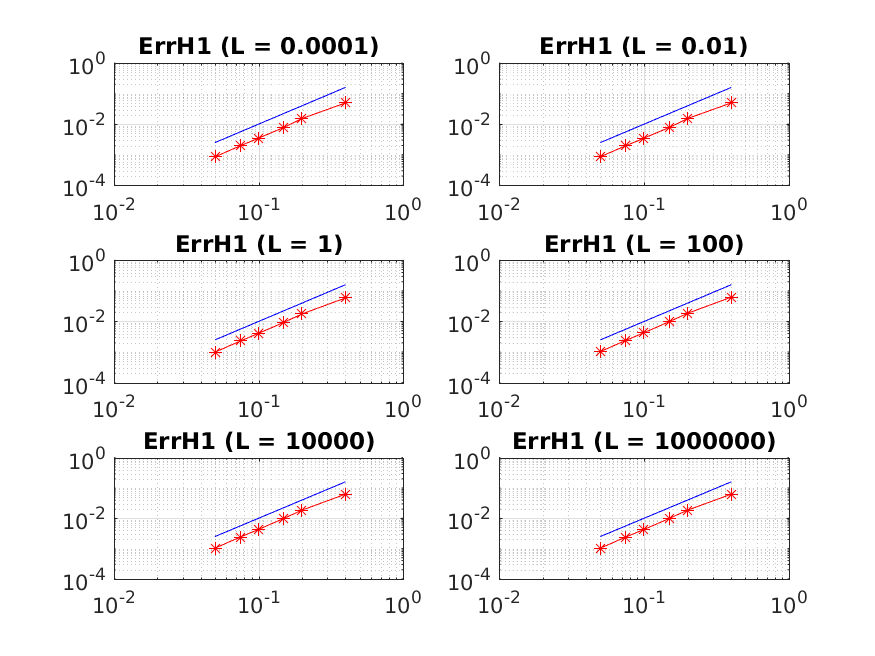
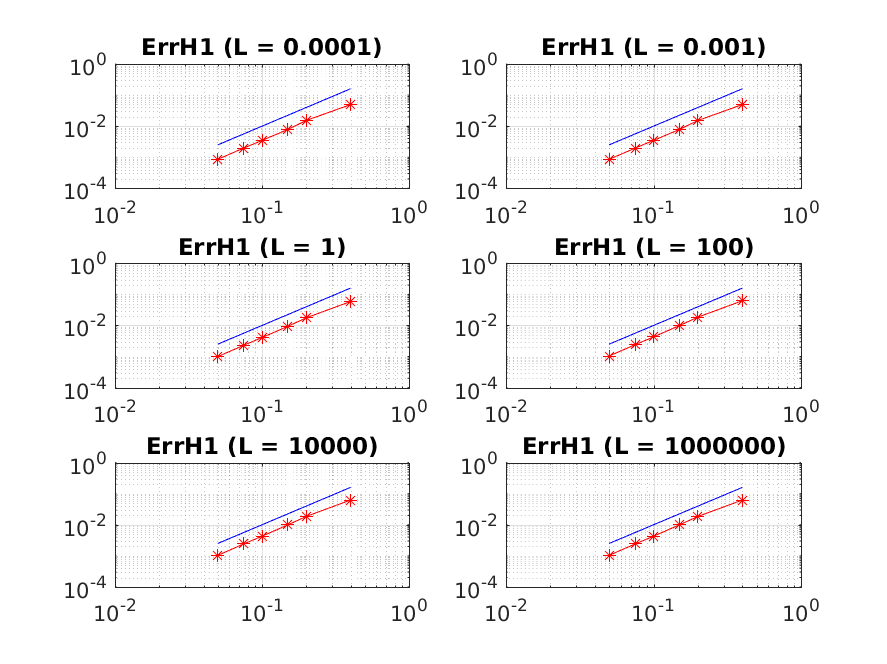
Updated tests

diff --git a/Progetto/main.m b/Progetto/main.m
@@ -2,6 +2,9 @@ clc
 clear all
 close all
 
+% Start time
+tic
+
 % out = 'yes';
 out = 'no';
 
@@ -9,8 +12,7 @@ out = 'no';
 plot = 'no';
 
 % Lambda Array Definition
-% lambda = [0.0001, 0.001, 1, 100, 10000, 1000000];
-lambda = [0.0001, 1, 1000, 1000000, 10000000000];
+lambda = [0.0001, 0.001, 1, 100, 10000, 1000000];
 nl = length(lambda);
 
 % h_max Array Definition
@@ -64,6 +66,9 @@ end
 
 clc
 
+wtime = toc;
+fprintf ( 1, '  MAIN took %f seconds to run.\n', wtime );
+
 disp(['h = ', num2str(h)]);
 disp(' ');
 
@@ -103,7 +108,7 @@ disp(' ');
   end
 
   
- % LATEX ERROR TABLE
+  % LATEX ERROR TABLE 
  latex = 'yes';
  
 if (strcmp(latex,'yes'))
@@ -111,8 +116,14 @@ if (strcmp(latex,'yes'))
  
  sL2 = 'ErrL2	&	$';
  sH1 = 'ErrH1	&	$';   
-     
+
+  fprintf ('\n');
+  disp('\hfill \\');
   disp(['lambda = ', num2str(lambda(j))]); 
+  disp('\begin{table}[!h]');
+  disp('\centering');
+  disp('\begin{tabular}{ | c | c | c | c | c | c | c | }');
+  disp('\hline');
   
   for i=1:n
       sL2 = [sL2, num2str(errL2(i,j))];
@@ -129,12 +140,10 @@ if (strcmp(latex,'yes'))
   
   disp(sL2);
   disp(sH1);
-  disp('');
+  disp('\end{tabular}');
+  disp('\end{table} ');   
+  fprintf ('\n');
   
- end 
-  
-end % End If
-  
-
-  
-
+ end % end for
+ 
+end % end if

diff --git a/Progetto/main_vol.m b/Progetto/main_vol.m
@@ -2,6 +2,9 @@ clc
 clear all
 close all
 
+% Start time
+tic
+
 % out = 'yes';
 out = 'no';
 
@@ -9,8 +12,7 @@ out = 'no';
 plot = 'no';
 
 % Lambda Array Definition
-% lambda = [0.0001, 0.001, 1, 100, 10000, 1000000];
-lambda = [0.0001, 1, 1000, 1000000, 10000000000];
+lambda = [0.0001, 0.001, 1, 100, 10000, 1000000];
 nl = length(lambda);
 
 % h_max Array Definition
@@ -63,8 +65,11 @@ end
 
 clc
 
+wtime = toc;
+fprintf ( 1, '  MAIN VOL took %f seconds to run.\n', wtime );
+
 disp(['h = ', num2str(h)]);
-disp(' ');
+fprintf ('\n');
 
 
 % Plot Loop
@@ -110,8 +115,14 @@ if (strcmp(latex,'yes'))
  
  sL2 = 'ErrL2	&	$';
  sH1 = 'ErrH1	&	$';   
-     
+
+  fprintf ('\n');
+  disp('\hfill \\');
   disp(['lambda = ', num2str(lambda(j))]); 
+  disp('\begin{table}[!h]');
+  disp('\centering');
+  disp('\begin{tabular}{ | c | c | c | c | c | c | c | }');
+  disp('\hline');
   
   for i=1:n
       sL2 = [sL2, num2str(errL2(i,j))];
@@ -128,7 +139,9 @@ if (strcmp(latex,'yes'))
   
   disp(sL2);
   disp(sH1);
-  disp('');
+  disp('\end{tabular}');
+  disp('\end{table} ');   
+  fprintf ('\n');
   
  end % end for
  

diff --git a/Progetto/P2_Vect.m b/Progetto/P2_Vect.m
@@ -1,4 +1,4 @@
-function [errL2, errH1] = P2_Vect2 (...
+function [errL2, errH1] = P2_Vect (...
                                        xv, yv, ...
                                        vertices, ...
                                        edges, ...
@@ -23,7 +23,7 @@ function [errL2, errH1] = P2_Vect2 (...
 %
 % FORMULA DI QUADRATURA 
 
-fdq = 'degree=5';
+fdq = 'degree=2';
 %
 [xhq,yhq,whq]=quadratura(fdq);
 %

diff --git a/Progetto/P2_Vect_vol.m b/Progetto/P2_Vect_vol.m
@@ -1,5 +1,5 @@
 %
-function [errL2, errH1] = P2_Vect_vol2 (...
+function [errL2, errH1] = P2_Vect_vol (...
                                        xv, yv, ...
                                        vertices, ...
                                        edges, ...

diff --git a/Progetto/carico1.m b/Progetto/carico1.m
@@ -3,7 +3,7 @@ function f1 = carico1(x,y)
 %    F1 = CARICO1(X,Y)
 
 %    This function was generated by the Symbolic Math Toolbox version 7.1.
-%    17-Feb-2017 20:27:54
+%    17-Feb-2017 21:21:42
 
 t3 = x.^2;
 t2 = t3-1.0;

diff --git a/Progetto/carico2.m b/Progetto/carico2.m
@@ -3,7 +3,7 @@ function f2 = carico2(x,y)
 %    F2 = CARICO2(X,Y)
 
 %    This function was generated by the Symbolic Math Toolbox version 7.1.
-%    17-Feb-2017 20:27:54
+%    17-Feb-2017 21:21:42
 
 t3 = y.^2;
 t2 = t3-1.0;
